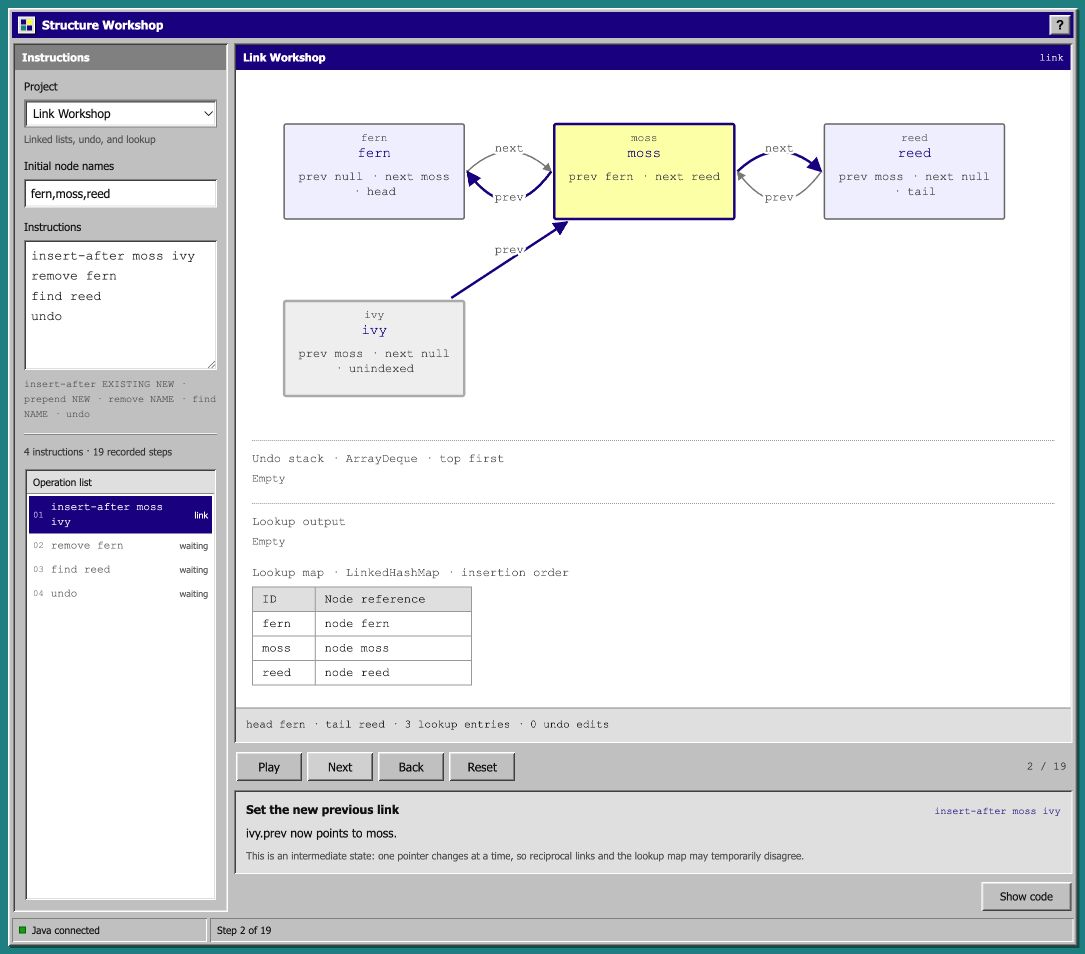
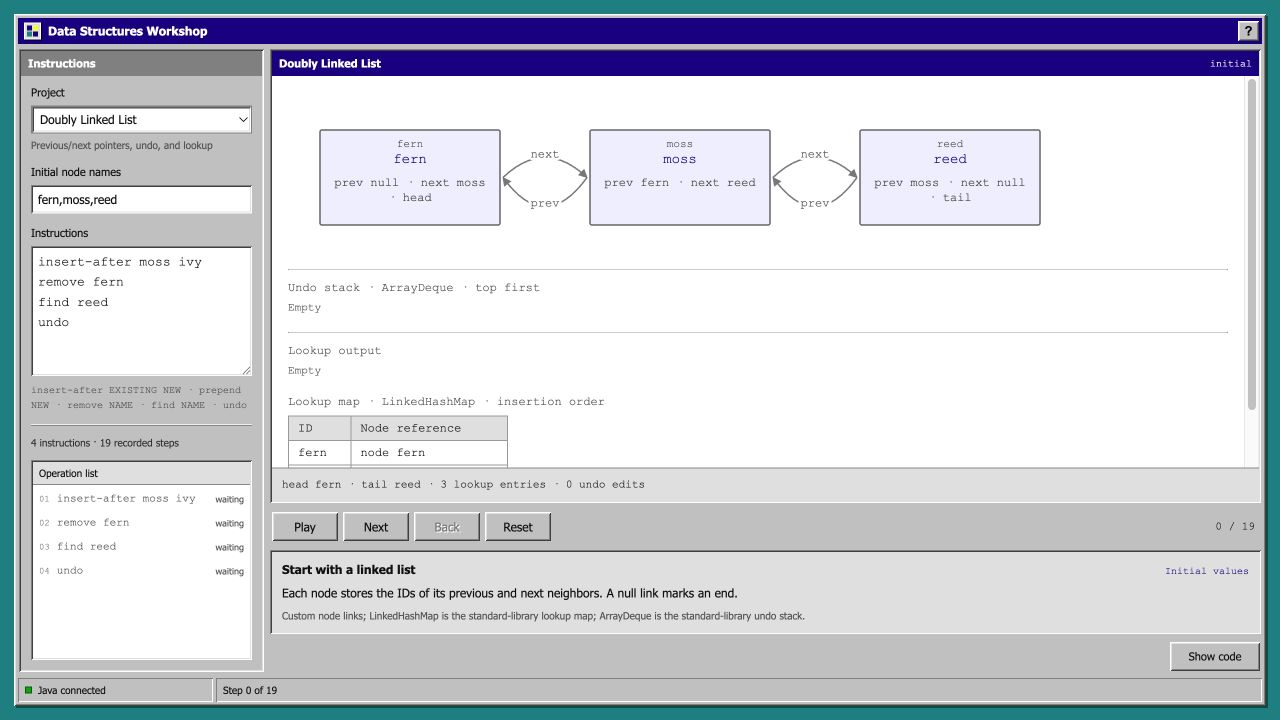
Use explicit data-structure names throughout the workshop

diff --git a/projects/structure-workshop/web/index.html b/projects/structure-workshop/web/index.html
@@ -1,7 +1,7 @@
 <!doctype html>
-<html lang="en"><head><meta charset="utf-8"><meta name="viewport" content="width=device-width, initial-scale=1"><meta name="theme-color" content="#008080"><title>Structure Workshop</title><link rel="stylesheet" href="/styles.css"><script src="/app.js" defer></script></head>
+<html lang="en"><head><meta charset="utf-8"><meta name="viewport" content="width=device-width, initial-scale=1"><meta name="theme-color" content="#008080"><title>Data Structures Workshop</title><link rel="stylesheet" href="/styles.css"><script src="/app.js" defer></script></head>
 <body><a class="skip-link" href="#main">Skip to experiment</a><div class="app-shell">
-<header class="title-bar"><div class="window-title"><span class="app-icon" aria-hidden="true"><i></i><i></i><i></i><i></i></span><h1>Structure Workshop</h1></div><button id="title-help" type="button" aria-label="About Structure Workshop">?</button></header>
+<header class="title-bar"><div class="window-title"><span class="app-icon" aria-hidden="true"><i></i><i></i><i></i><i></i></span><h1>Data Structures Workshop</h1></div><button id="title-help" type="button" aria-label="About Data Structures Workshop">?</button></header>
 <main id="main" tabindex="-1"><div id="workspace" class="workspace-grid">
 <aside class="instruction-panel" aria-labelledby="instructions-title"><div class="pane-heading"><h2 id="instructions-title">Instructions</h2></div><div class="sequence-fields">
 <label class="field-label" for="project">Project</label><select id="project" disabled><option>Loading projects…</option></select><p id="project-subtitle" class="field-help"></p>
@@ -14,4 +14,4 @@
 <div class="step-panel"><div class="step-heading"><h2 id="step-title">Before execution</h2><span id="operation-label" class="operation-label"></span></div><p id="step-message" class="step-message" aria-live="polite">Play follows the instructions. Next advances one recorded step.</p><p id="step-explanation" class="step-explanation">Java performs the operations; this view shows what changed.</p></div><div class="code-toggle-row"><button id="toggle-code" type="button" aria-expanded="false" aria-controls="code-panel">Show code</button></div></section>
 <section id="code-panel" class="code-panel" aria-label="Java source" hidden><div class="code-toolbar"><span id="source-filename">Java source</span><span>JAVA</span></div><div id="source-error" class="error-message" role="alert" hidden></div><div id="source-code" class="source-code" tabindex="0"><p class="code-empty">Source appears here.</p></div><p id="source-reference" class="source-reference">The highlighted line follows the current step.</p></section>
 </div></main><footer class="status-bar"><div class="connection-status"><span class="status-dot" id="connection-dot"></span><span id="connection-text">Connecting to Java</span></div><span id="desktop-status">Ready</span></footer></div>
-<dialog id="about-dialog"><div class="dialog-heading"><h2>About Structure Workshop</h2><button id="close-about" type="button" aria-label="Close about dialog">×</button></div><div class="dialog-body"><p class="about-name">Structure Workshop</p><p>A collection of Java experiments for seeing how data structures change, one operation at a time.</p><p>Edit the initial values and instructions, then press Play or Next. Reset keeps your inputs. Show code places the Java source beside the visualization.</p><p>The Java program performs the operations. The browser only positions and displays its recorded snapshots.</p></div></dialog></body></html>
+<dialog id="about-dialog"><div class="dialog-heading"><h2>About Data Structures Workshop</h2><button id="close-about" type="button" aria-label="Close about dialog">×</button></div><div class="dialog-body"><p class="about-name">Data Structures Workshop</p><p>A collection of Java experiments for seeing how data structures change, one operation at a time.</p><p>Edit the initial values and instructions, then press Play or Next. Reset keeps your inputs. Show code places the Java source beside the visualization.</p><p>The Java program performs the operations. The browser only positions and displays its recorded snapshots.</p></div></dialog></body></html>

diff --git a/projects/structure-workshop/src/workshop/WorkshopServer.java b/projects/structure-workshop/src/workshop/WorkshopServer.java
@@ -24,15 +24,15 @@ public final class WorkshopServer {
     private final Map<String,Map<String,Integer>> lines = new LinkedHashMap<>();
 
     public static final List<Map<String,String>> LABS = List.of(
-        lab("pair", "Pair Playground", "Generic values and references", "PairLab.java", "Initial pair", "12,27",
+        lab("pair", "Generic Pair", "Generics, references, and swapping", "PairLab.java", "Initial pair", "12,27",
             "swap\nleft 8\nclear right\nright 42", "left VALUE · right VALUE · swap · clear left/right. Use two integers, or _ for an empty side."),
-        lab("array", "Array Observatory", "Dynamic arrays", "DynamicBuffer.java", "Initial values", "12,27,41",
+        lab("array", "Array List", "Resizable array, inserts, and removals", "DynamicBuffer.java", "Initial values", "12,27,41",
             "append 8\ninsert 1 24\nremove 2\nset 0 9", "append VALUE · insert INDEX VALUE · remove INDEX · set INDEX VALUE. Indexes start at 0."),
-        lab("link", "Link Workshop", "Linked lists, undo, and lookup", "LinkLab.java", "Initial node names", "fern,moss,reed",
+        lab("link", "Doubly Linked List", "Previous/next pointers, undo, and lookup", "LinkLab.java", "Initial node names", "fern,moss,reed",
             "insert-after moss ivy\nremove fern\nfind reed\nundo", "insert-after EXISTING NEW · prepend NEW · remove NAME · find NAME · undo"),
-        lab("branch", "Branch Explorer", "Trees and a probing index", "BranchLab.java", "Root name", "grove",
+        lab("branch", "Tree & Hash Table", "First-child/next-sibling tree and hash index", "BranchLab.java", "Root name", "grove",
             "add grove fern\nadd grove iris\nadd fern moss\nfind moss\npreorder\nlevelorder", "add PARENT CHILD · find NAME · remove-leaf NAME · preorder · levelorder"),
-        lab("dependency", "Dependency Workshop", "Graphs, indexed heaps, and ordering", "DependencyLab.java", "Initial tasks", "sketch,cut,assemble,paint",
+        lab("dependency", "Topological Sort", "Directed graph, indexed min-heap, and ordering", "DependencyLab.java", "Initial tasks", "sketch,cut,assemble,paint",
             "link sketch cut\nlink cut assemble\nlink assemble paint\norder", "link BEFORE AFTER · order. A dependency goes from the prerequisite to the task that needs it.")
     );
     private static Map<String,String> lab(String id,String title,String subtitle,String file,String label,String initial,String operations,String help) {
@@ -67,7 +67,7 @@ public final class WorkshopServer {
         server.setExecutor(Executors.newFixedThreadPool(4));
         Runtime.getRuntime().addShutdownHook(new Thread(()->server.stop(0)));
         server.start();
-        System.out.println("Structure Workshop is ready at http://127.0.0.1:"+PORT+"/?lab=link");
+        System.out.println("Data Structures Workshop is ready at http://127.0.0.1:"+PORT+"/?lab=link");
         System.out.println("Press Ctrl+C to stop. Java performs all operations locally.");
     }
     private void handle(HttpExchange exchange) throws IOException {

diff --git a/projects/structure-workshop/README.md b/projects/structure-workshop/README.md
@@ -1,8 +1,8 @@
-# Structure Workshop
+# Data Structures Workshop
 
 Five small Java experiments in one simple 90s desktop interface. Edit the initial values and instructions, then watch the program change its data structures. **Show code** places the actual Java source beside the visualization and highlights the line associated with the current step.
 
-![A linked-list insertion in Structure Workshop](docs/preview.png)
+![Doubly Linked List in Data Structures Workshop](docs/preview.png)
 
 ## Run
 
@@ -28,7 +28,7 @@ Choose a project, edit its **initial values** and **instructions**, and read the
 - **Reset:** return to the initial state, keeping your inputs.
 - **Show code / Hide code:** open or close the Java source beside the visualization.
 
-Java executes the instructions and creates immutable snapshots. The browser draws those snapshots; it does not implement a second version of the algorithms. Back replays an earlier snapshot, while the Link Workshop's `undo` instruction is a real operation on its edit history. Steps mark selected assignments and algorithm actions, not every JVM instruction. Restart the server after editing Java so the compiled code and displayed source stay together.
+Java executes the instructions and creates immutable snapshots. The browser draws those snapshots; it does not implement a second version of the algorithms. Back replays an earlier snapshot, while the Doubly Linked List's `undo` instruction is a real operation on its edit history. Steps mark selected assignments and algorithm actions, not every JVM instruction. Restart the server after editing Java so the compiled code and displayed source stay together.
 
 ## The five labs
 
@@ -36,11 +36,11 @@ The P0–P4 column maps general concepts from a data-structures learning sequenc
 
 | Concepts | Lab | What the Java implementation does |
 | --- | --- | --- |
-| P0: generics and references | **Pair Playground** (`?lab=pair`) | `Pair<T>` stores two typed references. Watch replacements, empty values, and a swap's temporary reference. The browser uses integers; Java tests also use strings. Generic type checking happens at compile time, separately from input parsing. |
-| P1: dynamic arrays | **Array Observatory** (`?lab=array`) | Reuses the sibling project's custom `DynamicBuffer`, with doubling growth, indexed edits, copies, and shifts. |
-| P2: linked lists, stacks, maps | **Link Workshop** (`?lab=link`) | Custom doubly linked nodes expose each pointer change. Java's `LinkedHashMap` provides name lookup; `ArrayDeque` provides the undo stack. Their internal implementations are not visualized. |
-| P3: trees and hashing | **Branch Explorer** (`?lab=branch`) | A custom first-child / next-sibling tree has a fixed 32-slot linear-probing index. See collisions, wraparound, tombstones, preorder, and level-order traversal. |
-| P4: graphs and heaps | **Dependency Workshop** (`?lab=dependency`) | A directed adjacency matrix and custom indexed binary min-heap produce a topological order. Heap keys are remaining indegrees, with task names breaking ties. |
+| P0: generics and references | **Generic Pair** (`?lab=pair`) | `Pair<T>` stores two typed references. Watch replacements, empty values, and a swap's temporary reference. The browser uses integers; Java tests also use strings. Generic type checking happens at compile time, separately from input parsing. |
+| P1: dynamic arrays | **Array List** (`?lab=array`) | Reuses the sibling project's custom `DynamicBuffer`, with doubling growth, indexed edits, copies, and shifts. |
+| P2: linked lists, stacks, maps | **Doubly Linked List** (`?lab=link`) | Custom doubly linked nodes expose each pointer change. Java's `LinkedHashMap` provides name lookup; `ArrayDeque` provides the undo stack. Their internal implementations are not visualized. |
+| P3: trees and hashing | **Tree & Hash Table** (`?lab=branch`) | A custom first-child / next-sibling tree has a fixed 32-slot linear-probing index. See collisions, wraparound, tombstones, preorder, and level-order traversal. |
+| P4: graphs and heaps | **Topological Sort** (`?lab=dependency`) | A directed adjacency matrix and custom indexed binary min-heap produce a topological order. Heap keys are remaining indegrees, with task names breaking ties. |
 
 ## Inputs
 

diff --git a/README.md b/README.md
@@ -2,11 +2,11 @@
 
 Small, runnable software projects with visible internals. Build an understanding of the program by following its execution and reading the source alongside it.
 
-## Start here: Structure Workshop
+## Start here: Data Structures Workshop
 
-Five Java experiments share a simple 90s desktop interface: **Pair Playground, Array Observatory, Link Workshop, Branch Explorer, and Dependency Workshop**. Edit the initial values and instructions, then use **Play, Next, Back, and Reset** to follow the program. **Show code** opens the actual Java source beside the visualization and highlights the line behind each recorded step.
+Five Java experiments share a simple 90s desktop interface: **Generic Pair, Array List, Doubly Linked List, Tree & Hash Table, and Topological Sort**. Edit the initial values and instructions, then use **Play, Next, Back, and Reset** to follow the program. **Show code** opens the actual Java source beside the visualization and highlights the line behind each recorded step.
 
-Clone the whole repository: Structure Workshop reuses Array Observatory's Java engine from its sibling directory.
+Clone the whole repository: Data Structures Workshop reuses Array Observatory's Java engine from its sibling directory.
 
 ```sh
 git clone https://github.com/elgatito3131/open.git
@@ -19,12 +19,12 @@ Requires a JDK supporting Java 17 or later and a POSIX shell. Open <http://127.0
 
 | Project | Core language | Status |
 | --- | --- | --- |
-| [Structure Workshop](projects/structure-workshop/README.md) | Java | Runnable; five labs covering generics, arrays, linked lists, trees, hashing, graphs, and heaps |
+| [Data Structures Workshop](projects/structure-workshop/README.md) | Java | Runnable; five labs covering generics, arrays, linked lists, trees, hashing, graphs, and heaps |
 | [Array Observatory](projects/array-observatory/README.md) | Java | Original standalone array experiment, preserved on port 4196 |
 
 The labs cover concepts associated with a P0–P4 data-structures sequence. They are independent implementations and examples, not complete school assignments. The workshop documentation identifies which structures are custom and which use Java's standard library.
 
-![Structure Workshop](projects/structure-workshop/docs/preview.png)
+![Data Structures Workshop](projects/structure-workshop/docs/preview.png)
 
 The original Array Observatory interface remains available in its own project directory.
 

diff --git a/docs/roadmap.md b/docs/roadmap.md
@@ -4,15 +4,15 @@ Build one complete, explainable project at a time. Each release needs a working 
 
 ## Available
 
-- **[Structure Workshop](../projects/structure-workshop/README.md) — Java:** five runnable labs, each with editable inputs, step descriptions, Play/Next/Back/Reset, and Java source alongside recorded execution.
+- **[Data Structures Workshop](../projects/structure-workshop/README.md) — Java:** five runnable labs, each with editable inputs, step descriptions, Play/Next/Back/Reset, and Java source alongside recorded execution.
 
 | Lab | Implemented concepts |
 | --- | --- |
-| Pair Playground | Generic `Pair<T>`, references, replacements, empty values, and swaps |
-| Array Observatory | Custom dynamic array, doubling growth, indexed edits, copies, and shifts; reuses the standalone engine |
-| Link Workshop | Custom doubly linked nodes, standard-library map lookup, and a standard-library undo stack |
-| Branch Explorer | First-child / next-sibling tree, a fixed linear-probing index, tombstones, preorder, and level order |
-| Dependency Workshop | Directed graph, custom indexed min-heap, topological ordering, and cycle-blocked states |
+| Generic Pair | Generic `Pair<T>`, references, replacements, empty values, and swaps |
+| Array List | Custom dynamic array, doubling growth, indexed edits, copies, and shifts; reuses the standalone engine |
+| Doubly Linked List | Custom doubly linked nodes, standard-library map lookup, and a standard-library undo stack |
+| Tree & Hash Table | First-child / next-sibling tree, a fixed linear-probing index, tombstones, preorder, and level order |
+| Topological Sort | Directed graph, custom indexed min-heap, topological ordering, and cycle-blocked states |
 
 These are independent labs covering the P0–P4 concept sequence, not completed school assignments. They do not cover every requirement of those assignments.
 
